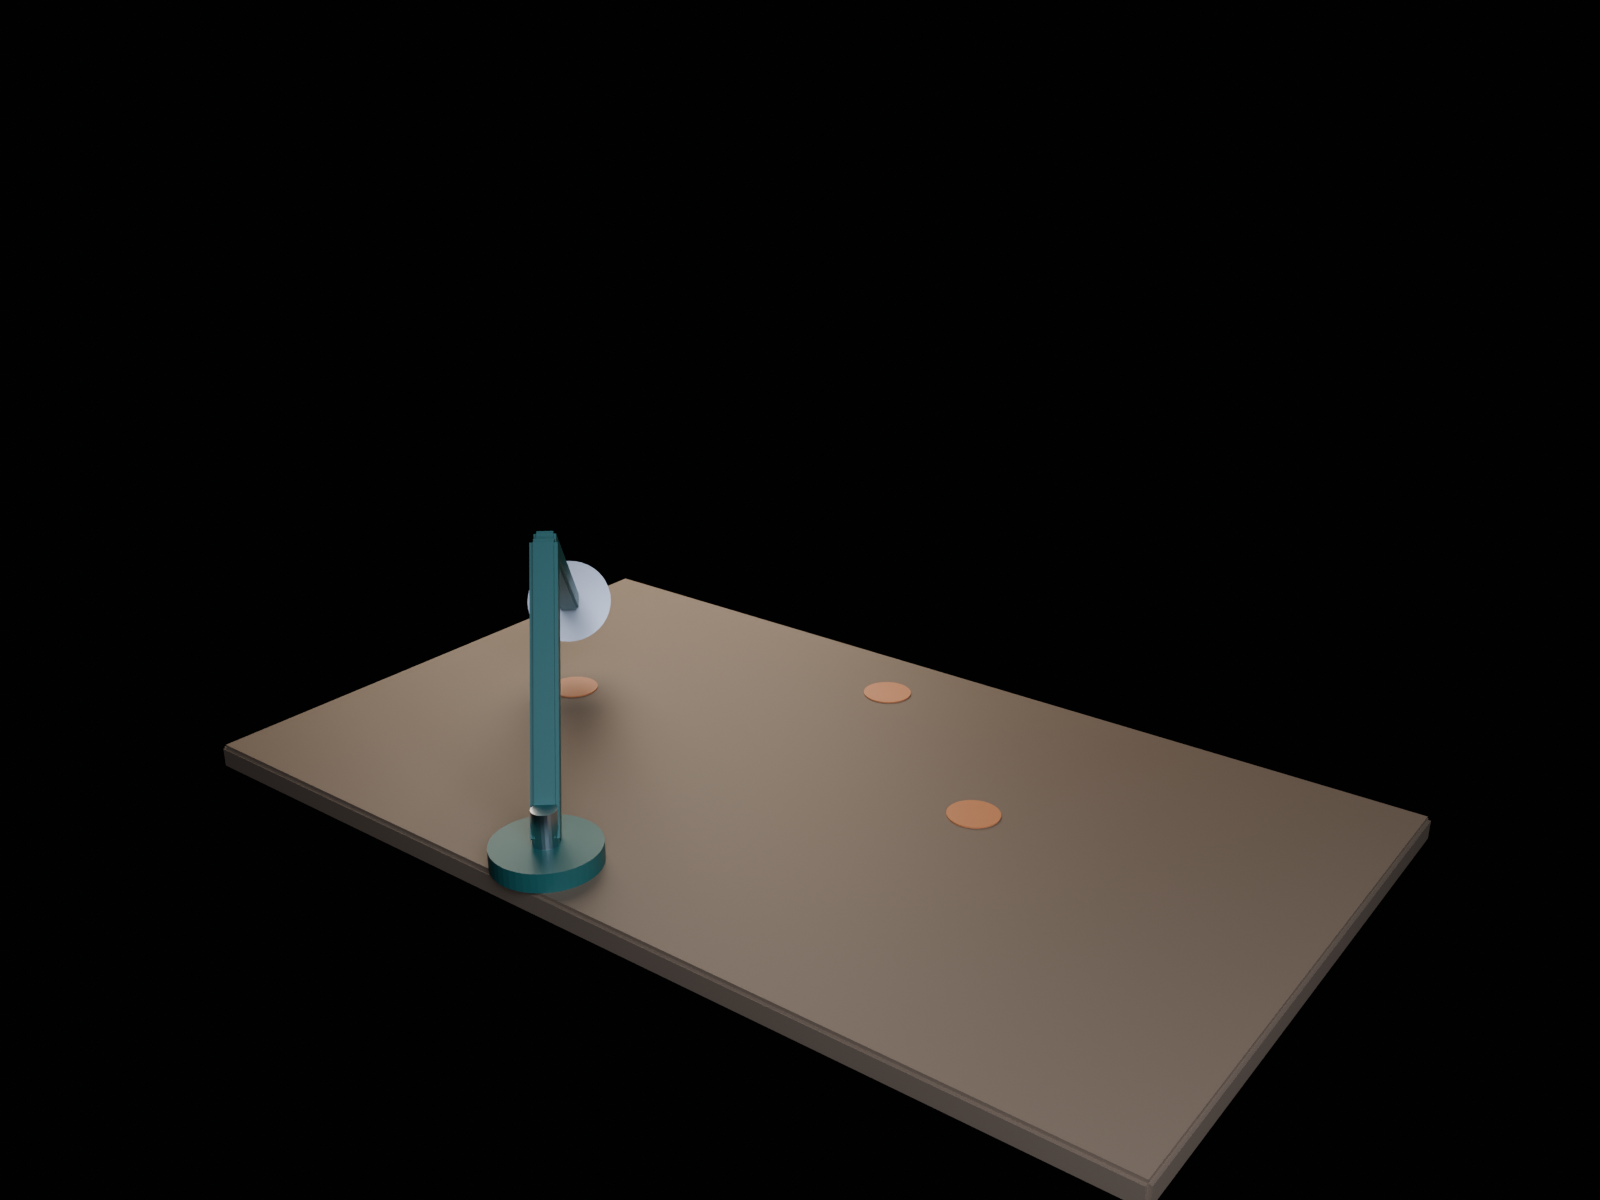
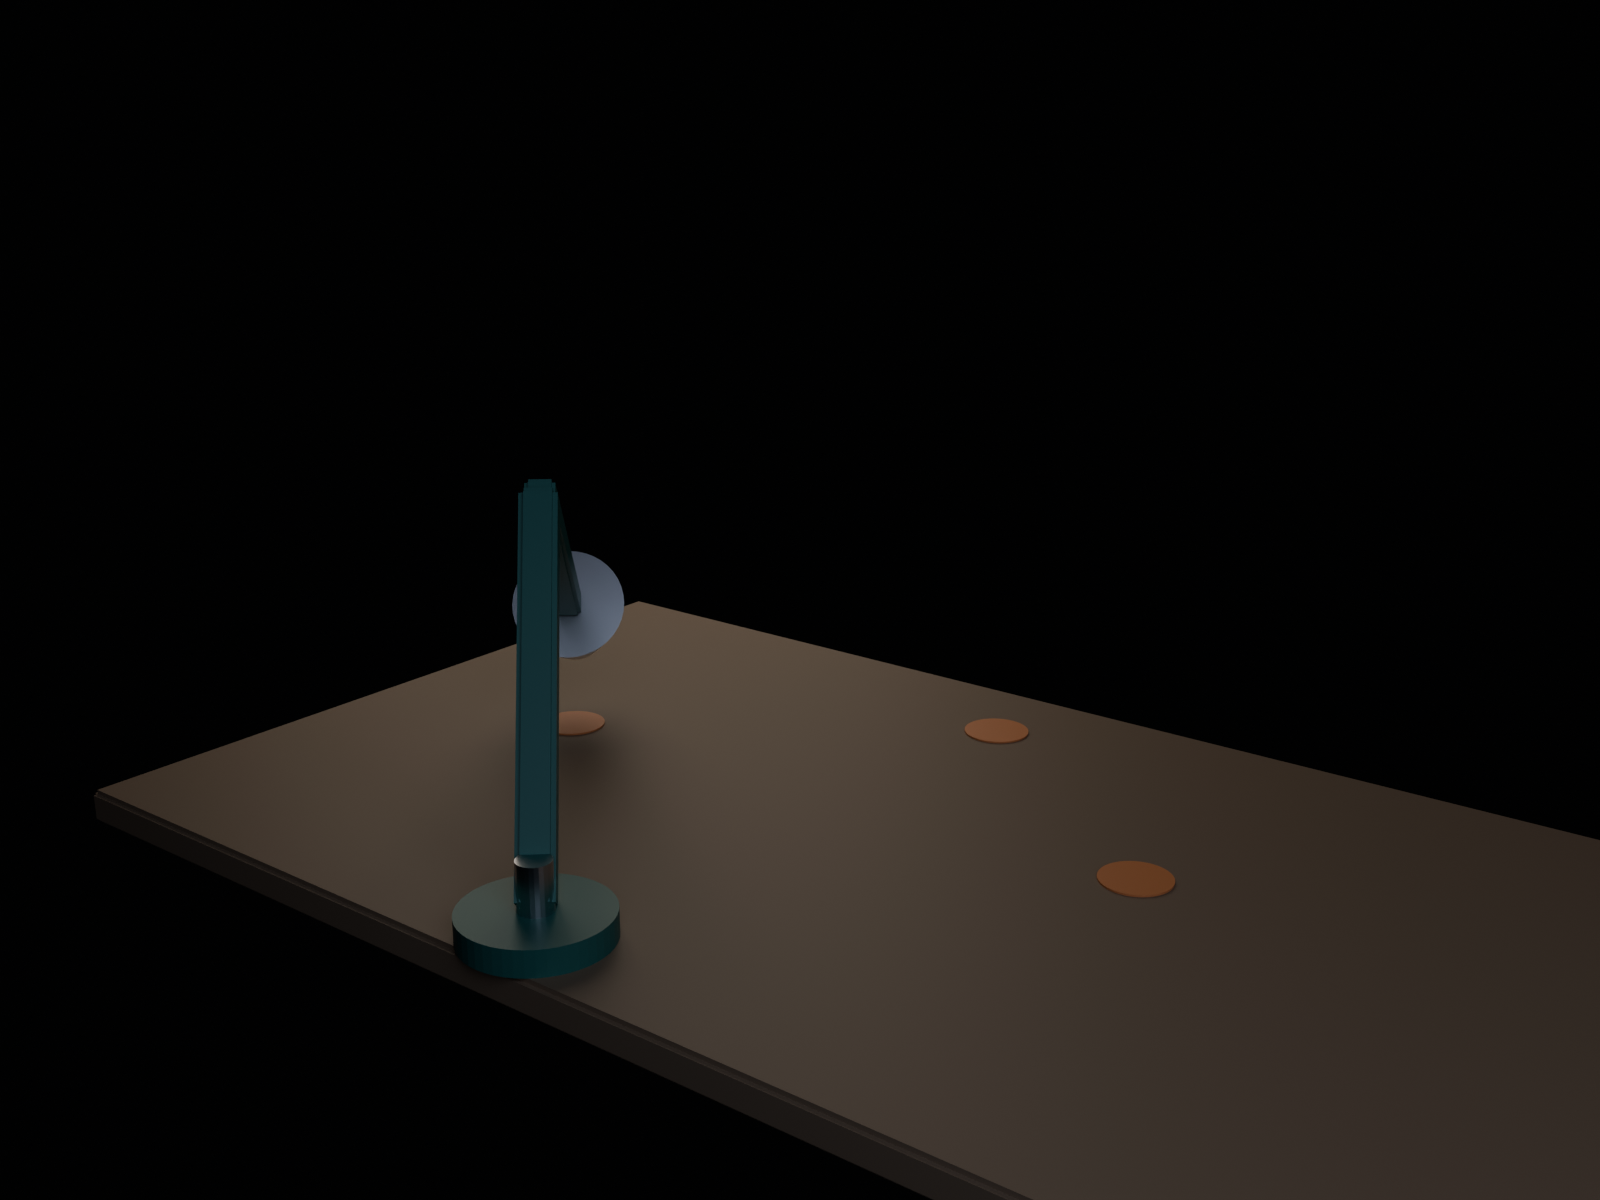
auto sync 2026-11-28 13:50:24

Changed region(s): [[0.0625, 0.4008, 1.0, 1.0]]

diff --git a/tasks/cua/drawer-cabinet/authoring/make_materials.py b/tasks/cua/drawer-cabinet/authoring/make_materials.py
@@ -26,13 +26,13 @@ def front_view(c, ox, oy, s):
     for i in range(5):
         z0 = 130 + i * 150
         z1 = z0 + 150
-        c.rect(*p(-462, z0 + 4), *p(-22, z1 - 4), INK, width=1.1)
+        c.rect(*p(-462, z0 + 5), *p(-22, z1 - 5), INK, width=1.1)
         cx, cy = p(-242, z0 + 75)
         c.circle(cx, cy, 5, GREY, fill=GREY, width=0)
         c.text(p(-462, z0 + 75)[0] - 46, p(-462, z0 + 75)[1] - 6, f"D{i + 1:02d}", 1, GREY)
-    c.rect(*p(22, 130), *p(478, 880), INK, width=1.1)
-    c.line(*p(22, 130), *p(478, 880), GREY, 0.6)
-    c.line(*p(22, 880), *p(478, 130), GREY, 0.6)
+    c.rect(*p(31, 132), *p(481, 878), INK, width=1.1)
+    c.line(*p(31, 132), *p(481, 878), GREY, 0.6)
+    c.line(*p(31, 878), *p(481, 132), GREY, 0.6)
     hx0, hy0 = p(58, 505)
     c.line(hx0, hy0 - 40, hx0, hy0 + 40, INK, 1.0)
 
@@ -63,9 +63,9 @@ def side_view(c, ox, oy, s):
     c.rect(*p(-225, 900), *p(225, 60), INK, width=1.4)
     c.rect(*p(-225, 60), *p(225, 0), GREY, width=1.0)
     c.text(ox - 40, oy - 30 * s, "PLINTH 60", 1, GREY)
-    c.rect(*p(225, 280), *p(525, 430), INK, fill=WOOD, width=1.2)
-    c.rect(*p(525 - 18, 280), *p(525, 430), INK, fill=INK, width=1.0)
-    c.dashed(*p(225, 355), *p(525, 355), DIM)
+    c.rect(*p(225, 280), *p(645, 430), INK, fill=WOOD, width=1.2)
+    c.rect(*p(645 - 18, 280), *p(645, 430), INK, fill=INK, width=1.0)
+    c.dashed(*p(225, 355), *p(645, 355), DIM)
     c.text(p(300, 355)[0] + 10, p(300, 355)[1] - 26, "TRAVEL 420", 1, DIM)
     yb = oy + 40
     c.line(p(-225, 0)[0], yb, p(225, 0)[0], yb, DIM, 1.0)
@@ -102,7 +102,7 @@ def draw_three_views(path):
     side_view(c, 1185, 1030, 0.50)
     door_detail(c, 1330, 300, 0.55)
     c.text(40, 1050, "ORIGIN AT FLOOR CENTRE. +Y IS THE FRONT. DRAWERS SLIDE ALONG +Y, DOOR SWINGS ABOUT A VERTICAL AXIS.", 1, INK)
-    c.text(40, 1074, "DRAWER FRONTS 440 x 150, TRAY DEPTH 400, TRAY PANELS 18. HANDLES: STEEL TUBES, 14 DIA.", 1, INK)
+    c.text(40, 1074, "DRAWER FRONTS 440 x 140, TRAY DEPTH 400, TRAY PANELS 18. HANDLES: STEEL TUBES, 14 DIA.", 1, INK)
     with open(path, "wb") as fh:
         fh.write(c.png())
 
@@ -126,7 +126,7 @@ def spec_pdf(path):
         pdf.text(64, 130 + 14 * i, line, 9)
     heading(206, "2. Drawers")
     for i, line in enumerate([
-        "Five drawers drawer_01..05 in the left bay (x -462..-22), fronts 440 x 150 x 18,",
+        "Five drawers drawer_01..05 in the left bay (x -462..-22), fronts 440 x 140 x 18, pitch 150,",
         "   tray 400 deep with 18 panels, steel handle tubes 320 long, 14 diameter.",
         "Each drawer is a separate mesh parented to an empty slide_01..05.",
         "The slide empty translates along +Y from 0 to 420; nothing else moves.",
@@ -135,7 +135,7 @@ def spec_pdf(path):
         pdf.text(64, 228 + 14 * i, line, 9)
     heading(310, "3. Door")
     for i, line in enumerate([
-        "One door_right 460 x 750 x 18 covering the right bay, hinged on its outer edge",
+        "One door_right 450 x 746 x 18 covering the right bay, hinged on its outer edge",
         "   by an empty hinge_right at (481, 226.5, 505).",
         "Rotation is about the vertical axis, 0 to 110 degrees, swinging outwards.",
         "The door must not touch the carcass or the drawer fronts at any angle.",
@@ -152,7 +152,7 @@ def spec_pdf(path):
     heading(506, "5. Deliverables and render brief")
     for i, line in enumerate([
         "drawer_cabinet.blend, manifest.json.",
-        "render_day.png: cam_front34, 35 mm, 1.6 m from the cabinet centre, 0.70 m above",
+        "render_day.png: cam_front34, 35 mm, 1.6 m from the cabinet centre, 1.15 m above",
         "   the floor, 1600 x 1200, light_day only.",
         "render_night.png: same camera, light_night only, 1600 x 1200.",
         "render_detail.png: cam_detail, 50 mm, 0.60 m from the front, 0.66 m high, aimed at",
@@ -176,10 +176,10 @@ def main():
     rows = [
         ["part", "size_mm", "material"],
         ["carcass panels", "18 thick, 1000x450x900 outer", "oak, 2K maps"],
-        ["drawer front", "440 x 150 x 18", "oak"],
+        ["drawer front", "440 x 140 x 18", "oak"],
         ["drawer tray", "400 deep, panels 18", "oak"],
         ["drawer handle", "320 long, 14 dia", "steel, metallic 1.0"],
-        ["door_right", "460 x 750 x 18", "oak, hinged outer edge"],
+        ["door_right", "450 x 746 x 18", "oak, hinged outer edge"],
         ["plinth feet", "60 high, 44 dia", "steel"],
     ]
     with open(os.path.join(materials, "spec", "parts.csv"), "w", newline="") as fh:

diff --git a/tasks/cua/delivery_materials.py b/tasks/cua/delivery_materials.py
@@ -1,0 +1,70 @@
+from pathlib import Path
+import importlib.util, sys
+from PIL import Image
+from reportlab.pdfgen import canvas
+import fitz
+
+ROOT=Path(__file__).resolve().parent
+
+def edit(path, old, new):
+    s=path.read_text(encoding='utf-8'); assert old in s,(path,old)
+    path.write_text(s.replace(old,new),encoding='utf-8',newline='\n')
+
+p=ROOT/'banner-stand/instruction.md'
+edit(p, 'the\nhinge at (0, 0, 1.96) ± 10 mm; at 14° the leg tip on the floor and 450–540 mm\nbehind the stand;', 'the\nhinge at (0, −0.045, 0.075) ± 10 mm; at 14° the brace top 460–560 mm\nbehind the stand and 1860–1960 mm above the floor;')
+edit(p,'on the base\'s rear edge', 'near the base\'s rear edge')
+p=ROOT/'banner-stand/task.toml'
+edit(p,'a 2020 mm rear leg on a 0-14 degree hinge that folds the stand to 120 mm and opens its foot to the floor', 'a 1900 mm rear brace on a base-mounted 0-14 degree hinge that folds within 130 mm and opens its top 460-560 mm behind the stand')
+p=ROOT/'banner-stand/authoring/make_materials.py'
+edit(p,'p(-400, 1955)', 'p(-400, 1960)')
+edit(p,'    c.rect(*p(-400, 1955), *p(-370, 60), GREY, width=0.8)\n', '') if False else None
+# Replace the obsolete top-hinged leg in both side views.
+s=p.read_text();start=s.index('    c.rect(*p(-400, 1955)') if '    c.rect(*p(-400, 1955)' in s else s.index('    c.rect(*p(-400, 1960)', s.index('def side_open'))
+end=s.index('\n\n\ndef side_folded',start)
+s=s[:start]+'''    c.line(*p(30, 60), *p(30, 1960), GREY, 1.0)
+    r = math.radians(14)
+    tipy, tipz = -45 - 1900 * math.sin(r), 75 + 1900 * math.cos(r)
+    c.line(*p(-45, 75), *p(tipy, tipz), INK, 1.2)
+    c.circle(*p(-45, 75), 4, INK, fill=INK)
+    c.dashed(*p(0, 0), *p(tipy, 0), DIM)
+    c.text(p(tipy, 0)[0] - 10, p(0, 0)[1] + 16, "TOP OFFSET 505", 1, DIM)
+    c.text(ox - 150, oy - 2100 * s - 10, "BRACE 1900. HINGE Y=-45 Z=75. OPEN 14 DEG.", 1, INK)
+'''+s[end:];p.write_text(s,encoding='utf-8',newline='\n')
+edit(p, 'c.line(*p(0, 50), *p(0, 1960), INK, 1.2)', 'c.line(*p(-45, 75), *p(-45, 1975), INK, 1.2)\n    c.circle(*p(-45, 75), 4, INK, fill=INK)')
+edit(p,'"FOLDED: 120 DEEP"','"FOLDED: 123 DEEP"')
+edit(p,'REAR LEG 2020, OPENS 0-14 DEG. FOLDED DEPTH 120.', 'REAR BRACE 1900, OPENS 0-14 DEG. FOLDED DEPTH <=130.')
+edit(p,"on the\"", "near the\"")
+edit(p,'base rear edge.', 'base rear edge.')
+p=ROOT/'drawer-cabinet/instruction.md'
+edit(p,'fronts 440 × 150 mm\n   and 18 mm thick', 'fronts 440 × 140 mm\n   and 18 mm thick on a 150 mm vertical pitch (10 mm gaps)')
+edit(p,'460 × 750 × 18 mm', '450 × 746 × 18 mm')
+p=ROOT/'drawer-cabinet/authoring/make_materials.py'
+edit(p,'z0 + 4', 'z0 + 5'); edit(p,'z1 - 4', 'z1 - 5')
+edit(p,'p(22, 130), *p(478, 880)', 'p(31, 132), *p(481, 878)')
+edit(p,'p(22, 130), *p(478, 880)', 'p(31, 132), *p(481, 878)') if False else None
+edit(p,'p(22, 880), *p(478, 130)', 'p(31, 878), *p(481, 132)')
+edit(p,'440 x 150', '440 x 140')
+edit(p,'460 x 750', '450 x 746')
+edit(p,'0.70 m above', '1.15 m above')
+edit(p,'fronts 440 x 140 x 18,', 'fronts 440 x 140 x 18, pitch 150,')
+# Show full travel in the side view, rather than labelling a 300 mm pose 420.
+edit(p,'p(525, 430)', 'p(645, 430)'); edit(p,'p(525 - 18, 280)', 'p(645 - 18, 280)'); edit(p,'p(525, 355)', 'p(645, 355)')
+
+for task,prefix in [('banner-stand','banner'),('drawer-cabinet','cabinet')]:
+    directory=ROOT/task
+    # Distinct module name to avoid sharing task-specific packgen state.
+    sys.path.insert(0,str(directory/'authoring'))
+    spec=importlib.util.spec_from_file_location(task, directory/'authoring/make_materials.py')
+    module=importlib.util.module_from_spec(spec);spec.loader.exec_module(module)
+    sys.argv=['make_materials.py',str(directory/'environment/materials'),str(directory/'solution')]
+    module.main()
+    drawing=directory/f'environment/materials/drawings/{prefix}_three_views.png'
+    im=Image.open(drawing)
+    pdf=canvas.Canvas(str(drawing.with_suffix('.pdf')),pagesize=(im.width/2,im.height/2))
+    pdf.drawImage(str(drawing),0,0,width=im.width/2,height=im.height/2);pdf.save()
+    qa=ROOT/'delivery-audit-20261128'/task/'pdf-qa';qa.mkdir(parents=True,exist_ok=True)
+    for path in [drawing.with_suffix('.pdf'),directory/f'environment/materials/spec/{prefix}_spec.pdf']:
+        doc=fitz.open(path)
+        for i,page in enumerate(doc):
+            page.get_pixmap(matrix=fitz.Matrix(1.5,1.5)).save(qa/f'{path.stem}-{i+1}.png')
+    sys.path.pop(0)

diff --git a/tasks/cua/banner-stand/authoring/make_materials.py b/tasks/cua/banner-stand/authoring/make_materials.py
@@ -26,7 +26,7 @@ def front(c, ox, oy, s):
     for x in (-380, 380):
         c.rect(*p(x - 20, 1960), *p(x + 20, 50), INK, fill=ALU, width=1.1)
     c.rect(*p(-400, 2000), *p(400, 1960), INK, fill=ALU, width=1.1)
-    c.rect(*p(-400, 1955), *p(400, 60), INK, fill=(238, 232, 216), width=1.1)
+    c.rect(*p(-400, 1960), *p(400, 60), INK, fill=(238, 232, 216), width=1.1)
     c.text_center(ox, p(0, 1700)[1], "BANNER 800 x 1900", 2, GREY)
     c.text_center(ox, p(0, 1500)[1], "PRINT 1:1", 2, GREY)
     yb = oy + 50
@@ -45,14 +45,15 @@ def side_open(c, ox, oy, s):
 
     c.rect(*p(-60, 50), *p(60, 0), INK, fill=ALU, width=1.1)
     c.rect(*p(-20, 2000), *p(20, 50), INK, fill=ALU, width=1.1)
-    c.rect(*p(-400, 1955), *p(-370, 60), GREY, width=0.8)
+    c.line(*p(30, 60), *p(30, 1960), GREY, 1.0)
     r = math.radians(14)
-    tipy, tipz = 2020 * math.sin(r), 1960 - 2020 * math.cos(r)
-    c.line(*p(0, 1960), *p(tipy, tipz), INK, 1.2)
-    c.circle(*p(0, 1960), 4, INK, fill=INK)
+    tipy, tipz = -45 - 1900 * math.sin(r), 75 + 1900 * math.cos(r)
+    c.line(*p(-45, 75), *p(tipy, tipz), INK, 1.2)
+    c.circle(*p(-45, 75), 4, INK, fill=INK)
     c.dashed(*p(0, 0), *p(tipy, 0), DIM)
-    c.text(p(tipy, 0)[0] - 30, p(0, 0)[1] + 16, "FOOTPRINT 490", 1, DIM)
-    c.text(ox - 150, oy - 2100 * s - 10, "REAR LEG 2020, HINGED AT THE TOP BAR, OPENS 0-14 DEG", 1, INK)
+    c.text(p(tipy, 0)[0] - 10, p(0, 0)[1] + 16, "TOP OFFSET 505", 1, DIM)
+    c.text(ox - 150, oy - 2100 * s - 10, "BRACE 1900. HINGE Y=-45 Z=75. OPEN 14 DEG.", 1, INK)
+
 
 
 def side_folded(c, ox, oy, s):
@@ -61,15 +62,16 @@ def side_folded(c, ox, oy, s):
 
     c.rect(*p(-60, 50), *p(60, 0), INK, fill=ALU, width=1.1)
     c.rect(*p(-20, 2000), *p(20, 50), INK, fill=ALU, width=1.1)
-    c.line(*p(0, 50), *p(0, 1960), INK, 1.2)
-    c.text(ox - 40, p(0, 2000)[1] - 30, "FOLDED: 120 DEEP", 2, INK)
+    c.line(*p(-45, 75), *p(-45, 1975), INK, 1.2)
+    c.circle(*p(-45, 75), 4, INK, fill=INK)
+    c.text(ox - 40, p(0, 2000)[1] - 30, "FOLDED: 123 DEEP", 2, INK)
 
 
 def draw_views(path):
     W, H = 1800, 1300
     c = packgen.Canvas(W, H, PAPER)
     c.text(40, 26, "FOLDING BANNER STAND - FRONT, SIDE AND FOLDED (MM)", 3, INK)
-    c.text(40, 60, "800 WIDE, 2000 HIGH. CANVAS 800 x 1900. REAR LEG 2020, OPENS 0-14 DEG. FOLDED DEPTH 120.", 1, INK)
+    c.text(40, 60, "800 WIDE, 2000 HIGH. CANVAS 800 x 1900. REAR BRACE 1900, OPENS 0-14 DEG. FOLDED DEPTH <=130.", 1, INK)
     front(c, 430, 1150, 0.42)
     side_open(c, 1030, 1150, 0.36)
     side_folded(c, 1500, 1150, 0.36)
@@ -106,7 +108,7 @@ def spec_pdf(path):
         pdf.text(64, 228 + 14 * i, line, 9)
     heading(310, "3. Rear leg")
     for i, line in enumerate([
-        "leg_rear is 1900 long, parented to an empty hinge_rear at (0, -45, 75) on the",
+        "leg_rear is 1900 long, parented to an empty hinge_rear at (0, -45, 75) near the",
         "   base rear edge. The hinge rotates about X away from the print: 0 degrees is",
         "   folded against the masts, 14 degrees is open with the top 500 mm behind the",
         "   stand and 1920 high.",

diff --git a/tasks/cua/banner-stand/instruction.md b/tasks/cua/banner-stand/instruction.md
@@ -24,7 +24,7 @@ deliverable is a scene a colleague can keep editing.
    every vertex within 2 mm of its plane and its top edge within 3 mm of the top
    bar underside. The print is mapped 1:1 with no crop and no overlap; UV area 1.0.
 3. Rear brace `leg_rear`: 1900 mm long, parented to an empty `hinge_rear` at
-   (0, −0.045, 0.075) — on the base's rear edge — that rotates about X so the
+   (0, −0.045, 0.075) — near the base's rear edge — that rotates about X so the
    brace swings away from the print. At 0° it stands folded against the masts
    (bottom at z ≈ 75 mm, folded stand ≤ 130 mm deep); at 14° it is open with its
    top 460–560 mm behind the stand and 1860–1960 mm above the floor. At 0°, 7°
@@ -71,8 +71,8 @@ The file must reopen; frame 800 ± 3 mm wide and 2000 ± 3 mm high, standing on
 the floor; all parts present with `leg_rear` parented to an empty `hinge_rear`;
 the canvas 800 ± 3 × 1900 ± 3 mm, flat within 2 mm, top within 3 mm of the bar;
 UV area 1.0 with full extent and the print aspect within 2 % of 800/1900; the
-hinge at (0, 0, 1.96) ± 10 mm; at 14° the leg tip on the floor and 450–540 mm
-behind the stand; folded depth ≤ 130 mm; no contact between the leg and the
+hinge at (0, −0.045, 0.075) ± 10 mm; at 14° the brace top 460–560 mm
+behind the stand and 1860–1960 mm above the floor; folded depth ≤ 130 mm; no contact between the leg and the
 frame at 0°, 7° and 14°; aluminium metallic ≥ 0.8 and canvas roughness in range;
 the print packed; at most 40 000 triangles; the three renders at the stated
 sizes from the named cameras; the manifest covering the print.

diff --git a/tasks/cua/drawer-cabinet/instruction.md b/tasks/cua/drawer-cabinet/instruction.md
@@ -22,12 +22,12 @@ deliverable is a scene a colleague can keep editing, not a screenshot.
    `carcass_left`, `carcass_right`, `carcass_top`, `carcass_bottom`,
    `carcass_back` and a centre `carcass_divider`. Origin at floor centre, +Y
    front, +Z up.
-2. Five drawers `drawer_01` … `drawer_05` in the left bay: fronts 440 × 150 mm
-   and 18 mm thick, trays 400 mm deep, steel handles. Each drawer is its own
+2. Five drawers `drawer_01` … `drawer_05` in the left bay: fronts 440 × 140 mm
+   and 18 mm thick on a 150 mm vertical pitch (10 mm gaps), trays 400 mm deep, steel handles. Each drawer is its own
    mesh, parented to an empty `slide_01` … `slide_05`; the empty translates
    along +Y from 0 to 420 mm and nothing else moves. Fully open, the tray must
    clear the carcass and every other drawer.
-3. One door `door_right`, 460 × 750 × 18 mm, covering the right bay, parented to
+3. One door `door_right`, 450 × 746 × 18 mm, covering the right bay, parented to
    an empty `hinge_right` at (0.481, 0.2265, 0.505) that rotates about the
    vertical axis from 0° to 110°, swinging outwards. At 0°, 55° and 110° the
    door must not touch the carcass or the drawer fronts.
